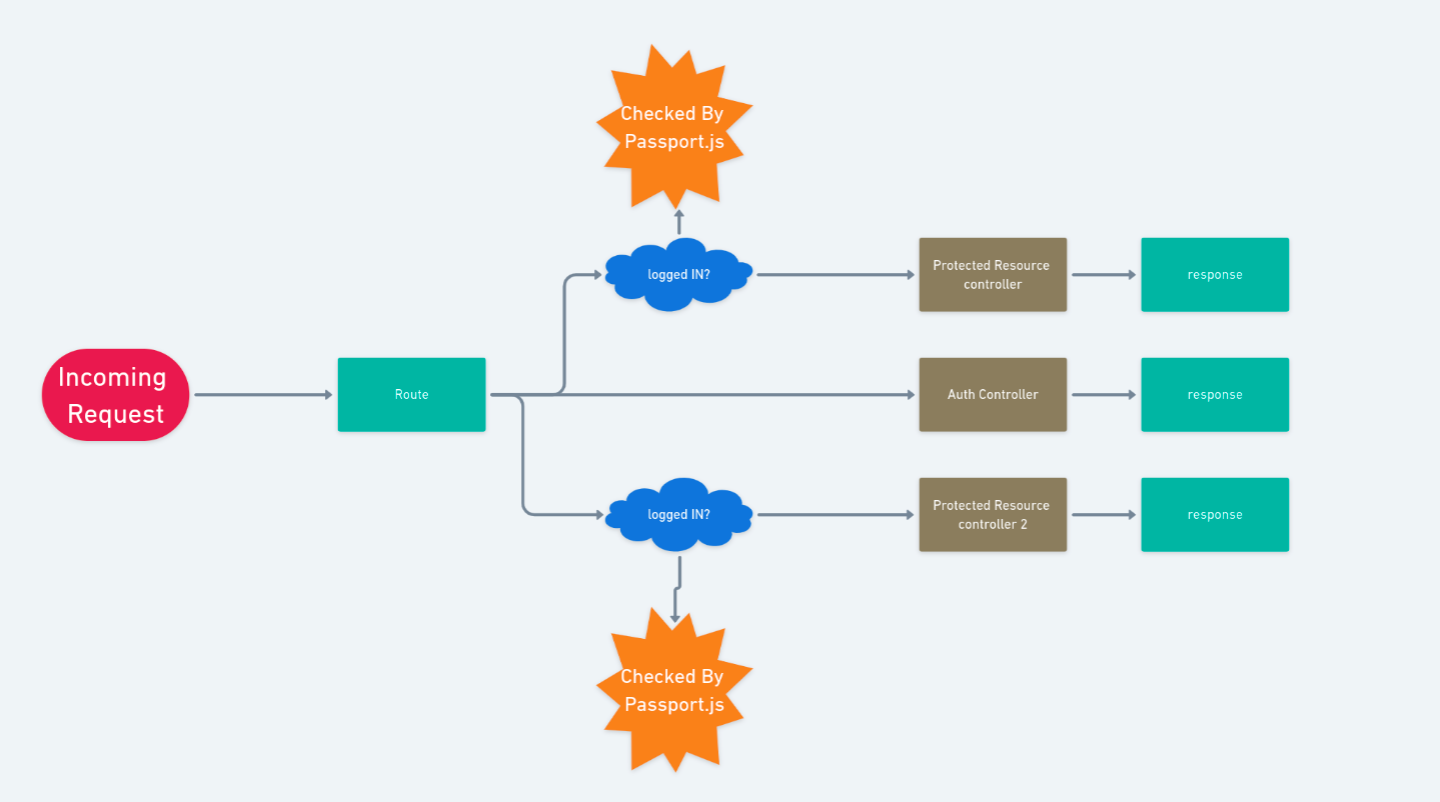
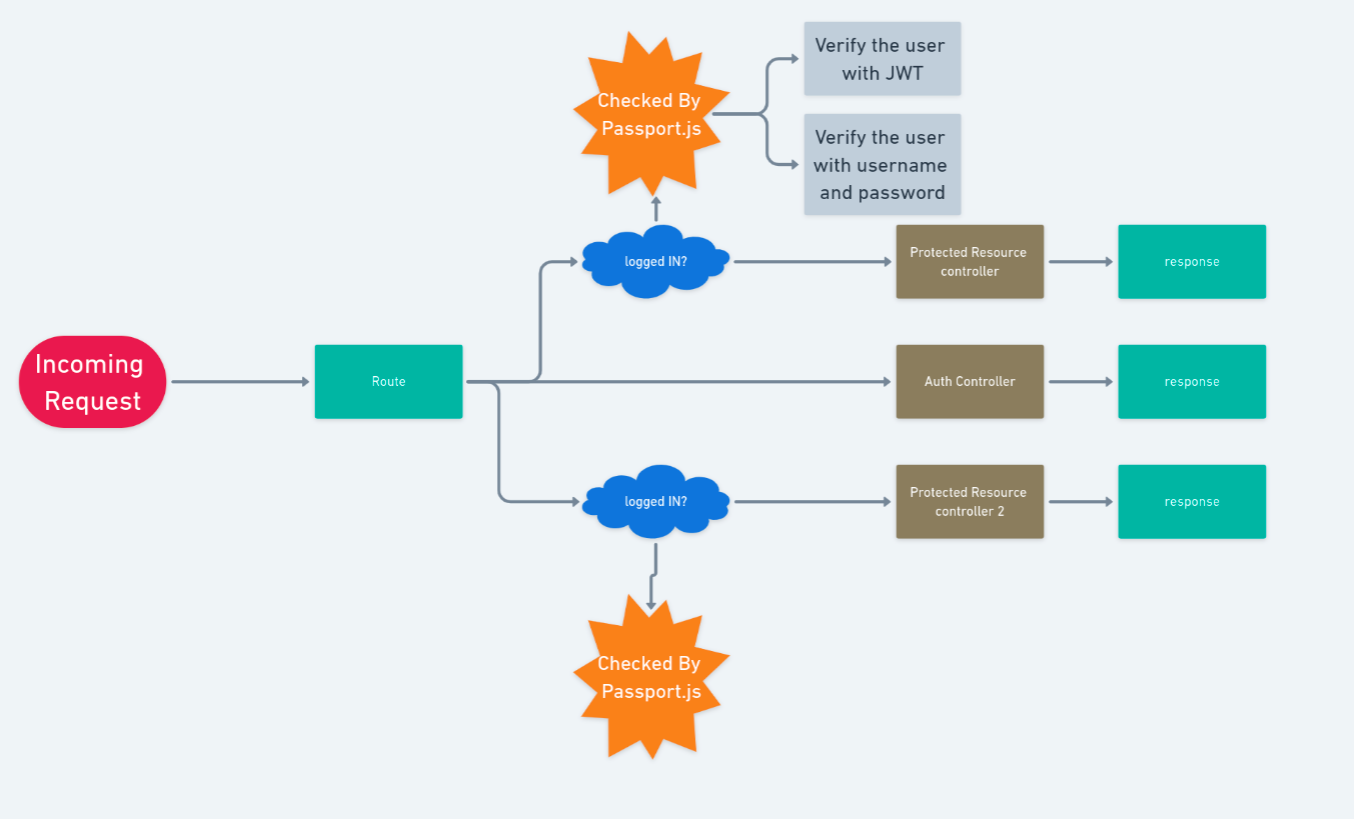
- passport login router using local strategy - verifyPassword method added in userschema - passport initialization and session false added

Changed region(s): [[0.0, 0.0, 0.9616, 0.9663]]

diff --git a/passport/passport.js b/passport/passport.js
@@ -1,9 +1,10 @@
 const passport = require("passport");
+const UserModel = require("../models/user");
+const config = require("../config");
+
 const JwtStrategy = require("passport-jwt").Strategy;
 const ExtractJwt = require("passport-jwt").ExtractJwt;
-const config = require("../config");
-const UserModel = require("../models/user");
-
+const LocalStrategy = require("passport-local").Strategy;
 const opts = {
   // header should have `Authorization: BEARER token`
   jwtFromRequest: ExtractJwt.fromAuthHeaderAsBearerToken(),
@@ -12,13 +13,12 @@ const opts = {
 
 passport.use(
   new JwtStrategy(opts, function(token_stored_payload, done) {
-    console.log(token_stored_payload);
     UserModel.findOne({ email: token_stored_payload.email }, function(
-      err,
+      error,
       user
     ) {
-      if (err) {
-        return done(err, false);
+      if (error) {
+        return done(error, false);
       }
       if (user) {
         return done(null, user);
@@ -29,4 +29,32 @@ passport.use(
   })
 );
 
-module.exports = passport.authenticate("jwt", { session: false });
+// https://github.com/jaredhanson/passport-local/#parameters
+const localOps = { usernameField: "email" };
+
+passport.use(
+  new LocalStrategy(localOps, function(email, password, done) {
+    UserModel.findOne({ email }, function(error, user) {
+      if (error) return done(error, false);
+      if (!user)
+        return done(null, false, { message: "Invalid Email or Password" });
+
+      user.verifyPassword(password, function(error, isEqual) {
+        if (error) return done(error, false);
+        if (isEqual) return done(null, user);
+        console.log("i was herre", isEqual);
+        return done(null, false, { message: "Invalid Email or Password" });
+      });
+    });
+  })
+);
+
+const isUserAuthenticated = passport.authenticate("jwt", { session: false });
+const localLogin = passport.authenticate("local", {
+  session: false
+});
+
+module.exports = {
+  isUserAuthenticated,
+  localLogin
+};

diff --git a/models/user.js b/models/user.js
@@ -1,5 +1,5 @@
 const mongoose = require("mongoose");
-const hashedPassword = require("../utils/hashedPassword");
+const bcrypt = require("bcrypt");
 
 // describe schema using mongoose.Schema
 const userSchema = new mongoose.Schema({
@@ -17,15 +17,24 @@ const userSchema = new mongoose.Schema({
 // and this points to newUser only if we dont use
 // arrow function as they ahve lexical scoping
 userSchema.pre("save", async function(next) {
-  // console.log(this);
   try {
-    const hashedPass = await hashedPassword(this.password);
+    const saltRounds = 4;
+    const salt = await bcrypt.genSalt(saltRounds);
+    const hashedPass = await bcrypt.hash(this.password, salt);
     this.password = hashedPass;
     return next();
   } catch (error) {
     return next(error);
   }
 });
+
+// using callback because passport requires callback
+userSchema.methods.verifyPassword = function(userEnteredPassword, callback) {
+  bcrypt.compare(userEnteredPassword, this.password, function(err, isEqual) {
+    if (err) return callback(err, null);
+    return callback(null, isEqual);
+  });
+};
 
 // descibe model class using mongoose.model
 // later in db 'User' becomes plural anf all lowecase means

diff --git a/controllers/authentication.js b/controllers/authentication.js
@@ -2,7 +2,7 @@ const User = require("../models/user");
 const createToken = require("../utils/createToken");
 
 exports.signup = async (req, res, next) => {
-  // TODO: Client Side Verification
+  // TODO: Client Side Verification of req.body
   const { name, email, password } = req.body;
   const user = await User.findOne({ email });
 
@@ -18,12 +18,19 @@ exports.signup = async (req, res, next) => {
 
     const token = await createToken({ email });
     await newUser.save();
-    res.status(201).send({ token });
+    res.status(201).send({ token, message: "New User Created" });
   } catch (error) {
     return next(error);
   }
 };
 
-exports.signin = (req, res, next) => {
-  res.send("Signin");
+exports.login = async (req, res, next) => {
+  try {
+    const token = await createToken(req.user);
+    return res
+      .status(200)
+      .send({ token, message: `Welcome Back ${req.user.name}` });
+  } catch (error) {
+    return next(error);
+  }
 };

diff --git a/index.js b/index.js
@@ -1,9 +1,9 @@
 const express = require("express");
 const app = express();
 const morgan = require("morgan");
+const passport = require("passport");
 const mainRouter = require("./routes/mainRouter");
 const mongoose = require("mongoose");
-const passportJWTAuth = require("./passport/passport");
 require("dotenv").config();
 
 // db connection
@@ -14,6 +14,7 @@ mongoose.connect("mongodb://localhost/auth", {
 });
 
 // Middlewares
+app.use(passport.initialize());
 app.use(express.urlencoded({ extended: true }));
 app.use(express.json());
 if (process.env.NODE_ENV === "development") {
@@ -23,10 +24,6 @@ if (process.env.NODE_ENV === "development") {
 // routers
 app.use("/", mainRouter);
 
-//protected Resources
-app.post("/profile", passportJWTAuth, (req, res) => {
-  res.send("Profile Accesed");
-});
 // error middleware
 app.use((err, req, res, next) => {
   console.log(err);

diff --git a/routes/mainRouter.js b/routes/mainRouter.js
@@ -1,12 +1,13 @@
 const router = require("express").Router();
 const Authentication = require("../controllers/authentication");
-
-router.get("/", (req, res) => {
-  console.log("Hello From Server");
-  res.status(200).send("Sucessfully connected to server");
-});
+const { isUserAuthenticated, localLogin } = require("../passport/passport");
 
 router.post("/signup", Authentication.signup);
-router.post("/signin", Authentication.signin);
+router.post("/login", localLogin, Authentication.login);
+
+// protected Resources
+router.post("/", isUserAuthenticated, (req, res) => {
+  res.status(200).send(`Hello ${req.user.name}`);
+});
 
 module.exports = router;
